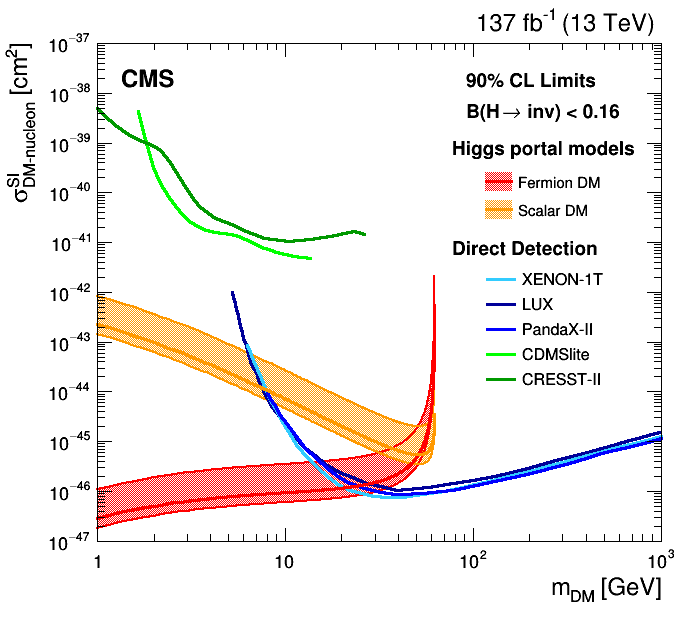
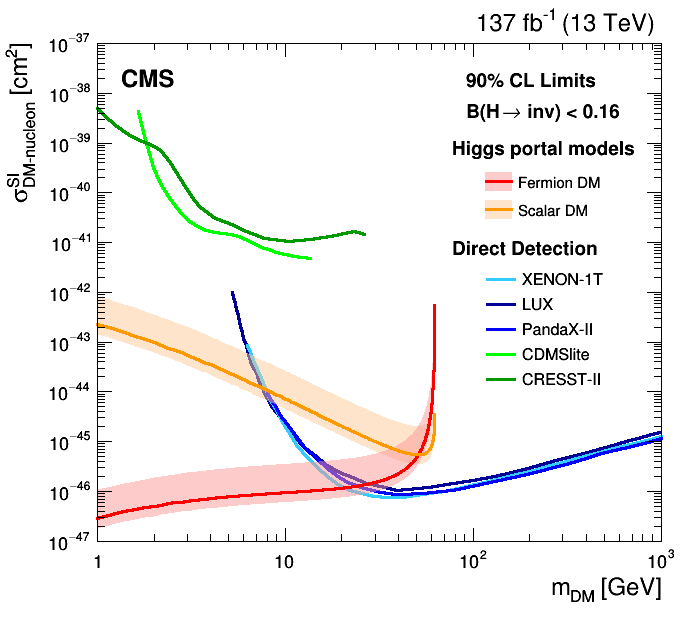
Adding useful comments. Defining variables to set some common properties. Sorting out ordering of elements

Changed region(s): [[0.1207, 0.4582, 0.6336, 0.8553], [0.694, 0.2749, 0.7543, 0.3666]]

diff --git a/chapters/higgstoinv/figures/dark_matter_limit/makeHiggsPortalPlot.C b/chapters/higgstoinv/figures/dark_matter_limit/makeHiggsPortalPlot.C
@@ -79,7 +79,7 @@ void makeHiggsPortalPlot(float observedBR, string outputDIR){
   TGraph* observedBound_fermion_min = new TGraph();
   TGraph* observedBound_fermion_max = new TGraph();
 
-  // loop on DM mass values
+  // loop on DM mass values, getting nominal values for lines, and min. and max. values for bands
   int ipoint_fermion = 0;
   int ipoint_scalar = 0;
   for(float dmMass = minDM; dmMass <= maxDM; dmMass = dmMass+stepDM){
@@ -95,7 +95,7 @@ void makeHiggsPortalPlot(float observedBR, string outputDIR){
     ipoint_scalar++;
   }
   
-  
+  // Draw canvas
   TH1* frame = canvas->DrawFrame(minX,minY_dd,maxX,maxY_dd,"");
   frame->GetYaxis()->SetTitle("#sigma^{SI}_{DM-nucleon} [cm^{2}]");
   frame->GetXaxis()->SetTitle("m_{DM} [GeV]");
@@ -112,18 +112,28 @@ void makeHiggsPortalPlot(float observedBR, string outputDIR){
   gPad->SetLeftMargin(0.14);
   frame->Draw();
 
-  observedBound_fermion->SetLineColor(kRed);
-  observedBound_fermion->SetLineWidth(3);
-  observedBound_fermion_min->SetLineColor(kRed);
-  observedBound_fermion_min->SetLineWidth(2);
-  observedBound_fermion_max->SetLineColor(kRed);
-  observedBound_fermion_max->SetLineWidth(2);
-  observedBound_scalar->SetLineColor(kOrange-3);
-  observedBound_scalar->SetLineWidth(3);
-  observedBound_scalar_min->SetLineColor(kOrange-3);
-  observedBound_scalar_min->SetLineWidth(2);
-  observedBound_scalar_max->SetLineColor(kOrange-3);
-  observedBound_scalar_max->SetLineWidth(2);
+  // Set aesthetics for fermion and scalar lines and bands
+  int fermion_line_colour = kRed;
+  int scalar_line_colour = kOrange - 3;
+  int fermion_shade_colour = kRed - 9;
+  int scalar_shade_colour = kOrange - 9;
+  int nominal_line_width = 3;
+  int band_line_width = 0;
+  double shade_alpha = 0.5;  // transparency (0. = fully transparent, 1. = opaque)
+
+  observedBound_fermion->SetLineColorAlpha(fermion_line_colour, 1.);
+  observedBound_fermion->SetLineWidth(nominal_line_width);
+  observedBound_fermion_min->SetLineColorAlpha(fermion_shade_colour, shade_alpha);
+  observedBound_fermion_min->SetLineWidth(band_line_width);
+  observedBound_fermion_max->SetLineColorAlpha(fermion_shade_colour, shade_alpha);
+  observedBound_fermion_max->SetLineWidth(band_line_width);
+
+  observedBound_scalar->SetLineColor(scalar_line_colour);
+  observedBound_scalar->SetLineWidth(nominal_line_width);
+  observedBound_scalar_min->SetLineColorAlpha(scalar_shade_colour, shade_alpha);
+  observedBound_scalar_min->SetLineWidth(band_line_width);
+  observedBound_scalar_max->SetLineColorAlpha(scalar_shade_colour, shade_alpha);
+  observedBound_scalar_max->SetLineWidth(band_line_width);
 
   TGraph* observed_fermion_shade = new TGraph();
   TGraph* observed_scalar_shade = new TGraph();
@@ -159,28 +169,18 @@ void makeHiggsPortalPlot(float observedBR, string outputDIR){
     observed_scalar_shade->SetPoint(ipoint+ipoint_offset,x,y);    
     ipoint++;
   }
-    
 
-  observed_fermion_shade->SetFillStyle(3001);
-  observed_fermion_shade->SetFillColor(kRed);
-  observed_fermion_shade->SetLineColor(kRed);
-  observed_fermion_shade->SetLineWidth(3);
-  observed_scalar_shade->SetFillStyle(3001);
-  observed_scalar_shade->SetFillColor(kOrange-3);
-  observed_scalar_shade->SetLineColor(kOrange-3);
-  observed_scalar_shade->SetLineWidth(3);
-  
-  observed_fermion_shade->Draw("F same");
-  observed_scalar_shade->Draw("F same");
+  int shade_style = 1001;  // solid fill
+  observed_fermion_shade->SetFillStyle(shade_style);
+  observed_fermion_shade->SetFillColorAlpha(fermion_shade_colour, shade_alpha);
+  observed_fermion_shade->SetLineColor(fermion_line_colour);  // Sets line colour in legend
+  observed_fermion_shade->SetLineWidth(nominal_line_width);  // Sets line width in legend
+  observed_scalar_shade->SetFillStyle(shade_style);
+  observed_scalar_shade->SetFillColorAlpha(scalar_shade_colour, shade_alpha);
+  observed_scalar_shade->SetLineColor(scalar_line_colour);
+  observed_scalar_shade->SetLineWidth(nominal_line_width);
 
-  observedBound_fermion->Draw("L SAME");
-  observedBound_fermion_min->Draw("L SAME");
-  observedBound_fermion_max->Draw("L SAME");
-
-  observedBound_scalar->Draw("L SAME");
-  observedBound_scalar_min->Draw("L SAME");
-  observedBound_scalar_max->Draw("L SAME");
-
+  // Create lines for direct detection limits and draw
   TGraph *lM0 = lux();
   TGraph *lM1 = cdmslite();
   TGraph *lM2 = xenon();
@@ -199,9 +199,18 @@ void makeHiggsPortalPlot(float observedBR, string outputDIR){
   lM3->Draw("L SAME");
   lM4->Draw("L SAME");
 
+  // Draw fermion and scalar lines and bands on top
+  observed_scalar_shade->Draw("F same");
+  observedBound_scalar_min->Draw("L SAME");
+  observedBound_scalar_max->Draw("L SAME");
+
+  observed_fermion_shade->Draw("F same");
+  observedBound_fermion_min->Draw("L SAME");
+  observedBound_fermion_max->Draw("L SAME");
   observedBound_fermion->Draw("L SAME");
   observedBound_scalar->Draw("L SAME");
 
+  // Add annotations and legends
   TLatex* tex = new TLatex();
   tex->SetNDC();
   tex->SetTextFont(72);
@@ -243,7 +252,6 @@ void makeHiggsPortalPlot(float observedBR, string outputDIR){
   leg_2->AddEntry(lM3 ,"CRESST-II","L");
   leg_2->Draw("same");
   
-
   CMS_lumi(canvas,"137");
   canvas->RedrawAxis("samesaxis");
    
@@ -433,6 +441,7 @@ TGraph *cdmslite(){
   
 }
 
+
 TGraph *xenon(){
   
   int i0 = -1;
@@ -491,6 +500,7 @@ TGraph *xenon(){
   return lLimit;
 
 }
+
 
 TGraph *panda(){
 
